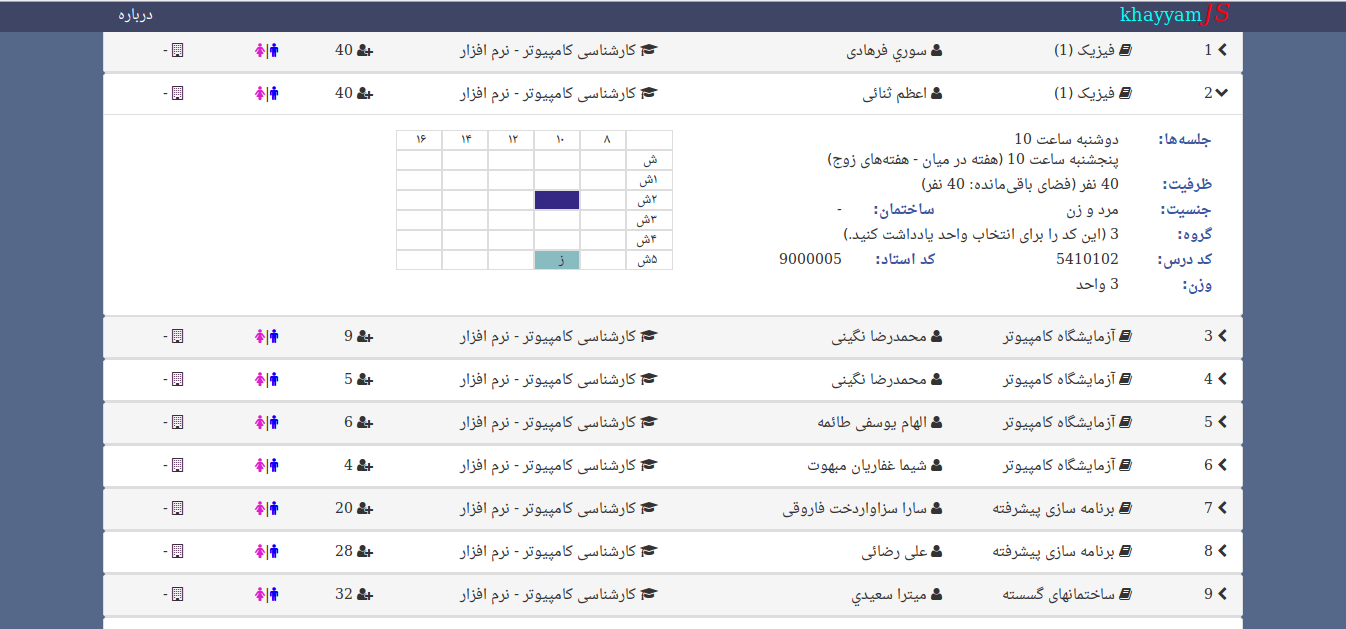
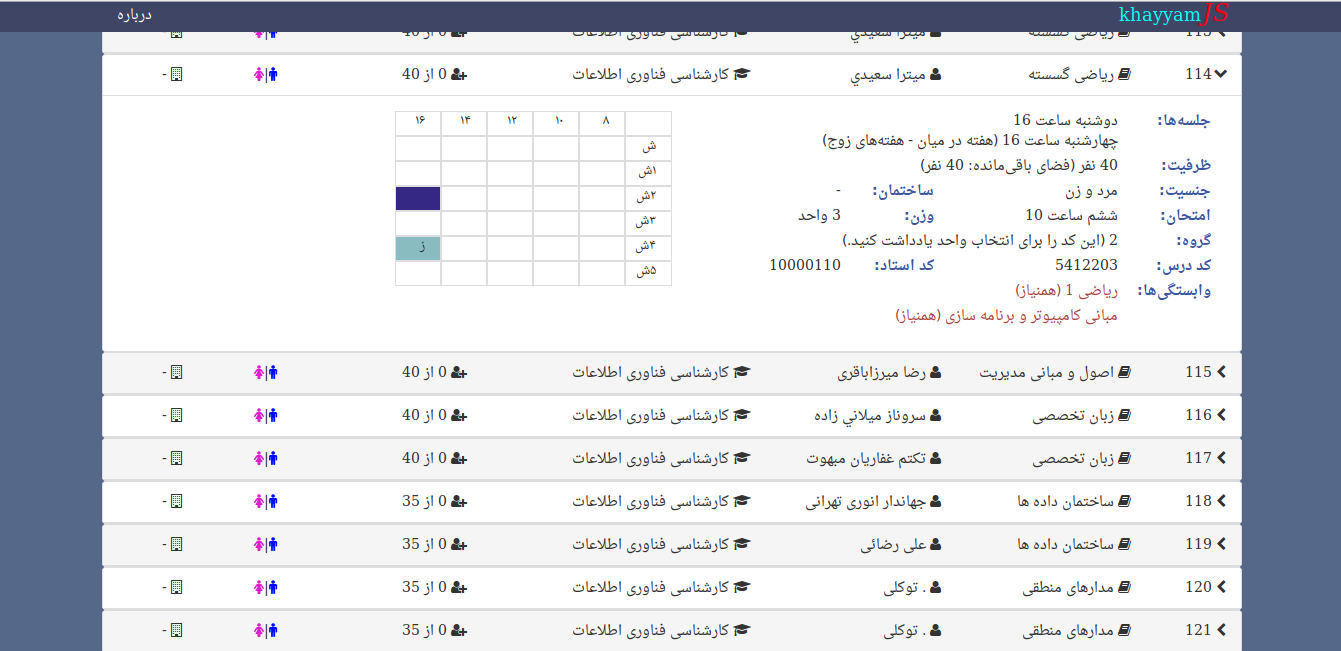
Added course requirements. updated to version 0.2

Changed region(s): [[0.0611, 0.0, 0.9478, 0.9968]]

diff --git a/khayyamJS.user.js b/khayyamJS.user.js
@@ -34,7 +34,7 @@ Github: https://github.com/tuxitop/khayyamJS
 // @namespace   http://alimsvi.ir/
 // @description changes the UI of the presented course list in the student portal of Khayyam university of Mashhad.
 // @include     http://stu.khayyam.ac.ir/strcss/ShowPresentedCourses.php
-// @version     0.1.3
+// @version     0.2
 // @author      Ali Mousavi
 // @require     https://code.jquery.com/jquery-1.10.2.js
 // @require     https://maxcdn.bootstrapcdn.com/bootstrap/3.3.5/js/bootstrap.min.js
@@ -90,6 +90,7 @@ var Course = function(index, courseColArray) {
 
     this.fieldID = this.courseID.substr(0, 4);
     this.sessionsArray = this.getSessionsArray();
+    this.reqsArray = this.getReqsArray();
 };
 
 Course.prototype.addToPage = function () {
@@ -149,6 +150,8 @@ Course.prototype.addToPage = function () {
                 '<div class="row">' +
                     '<div class="col-xs-2 course-specs-heading">امتحان:</div>' +
                     '<div class="col-xs-4 course-exam">' + this.examDay + " ساعت " + this.examHour + '</div>' +
+                    '<div class="col-xs-2 course-specs-heading">وزن:</div>' +
+                    '<div class="col-xs-4 course-weight">' + this.weight[0] + ' واحد</div>' +
                 '</div>' +
                 '<div class="row">' +
                     '<div class="col-xs-2 course-specs-heading">گروه:</div>' +
@@ -163,8 +166,8 @@ Course.prototype.addToPage = function () {
                     '<div class="col-xs-4 course-teacherID">' + this.teacherID + '</div>' +
                 '</div>' +
                 '<div class="row">' +
-                    '<div class="col-xs-2 course-specs-heading">وزن:</div>' +
-                    '<div class="col-xs-4 course-weight">' + this.weight[0] + ' واحد</div>' +
+                    '<div class="col-xs-2 course-specs-heading">وابستگیها:</div>' +
+                    '<div class="col-xs-10 course-reqs"></div>' +
                 '</div>' +
             '</div>' +
             '<div class="col-sm-5 col-md-3 col-xs-12 course-table">' +
@@ -206,6 +209,23 @@ Course.prototype.addToPage = function () {
                 '<div class="row">' +
                     '<div class="col-sm-12 session-time">' +
                         session.day + ' ساعت ' + session.hour +
+                    '</div>' +
+                '</div>'
+            );
+        }
+    }
+
+    // Add Requirements to the specs.
+    if (!this.reqsArray.length) {
+        $("#" + this.id + " .course-reqs").text('-');
+    }
+    else {
+        for (var i = 0; i < this.reqsArray.length; i++) {
+            req = this.reqsArray[i];
+            $("#" + this.id + " .course-reqs").append(
+                '<div class="row">' +
+                    '<div class="col-sm-12 text-danger">' +
+                        req.title + ' (' + req.type + ')' +
                     '</div>' +
                 '</div>'
             );
@@ -257,6 +277,21 @@ Course.prototype.getSessionsArray = function() {
         sessionsArray.push(Session);
     }
     return sessionsArray;
+};
+Course.prototype.getReqsArray = function() {
+    reqsArray = [];
+    var re_reqs = /کد درس ?: ?(\d+?) نام درس: (.*?) تعداد واحد: ?(\d) ?\( ?(پیشنیاز|همنیاز)\) ?کد ?معادل ?: ?(-?\d+?)<\/li>/g;
+    var reMatch;
+    while ((reMatch = re_reqs.exec(this.specs)) !== null ) {
+        var Req = {};
+        Req.id = reMatch[1];
+        Req.title = reMatch[2];
+        Req.weight = reMatch[3];
+        Req.type = reMatch[4];
+        Req.altId = reMatch[5];
+        reqsArray.push(Req);
+    }
+    return reqsArray;
 };
 Course.prototype.getGender = function() {
     /*
@@ -321,7 +356,7 @@ var createBody = function() {
         '<link rel="stylesheet" href="https://maxcdn.bootstrapcdn.com/bootstrap/3.3.5/css/bootstrap.min.css">' +
         '<link rel="stylesheet" href="http://cdn.rawgit.com/morteza/bootstrap-rtl/master/dist/css/bootstrap-rtl.min.css">' +
         '<link rel="stylesheet" href="https://maxcdn.bootstrapcdn.com/font-awesome/4.4.0/css/font-awesome.min.css">' +
-        '<link rel="stylesheet" href="https://cdn.rawgit.com/tuxitop/khayyamJS/v0.1.2/style.css">'
+        '<link rel="stylesheet" href="https://cdn.rawgit.com/tuxitop/khayyamJS/v0.2/style.css">'
     );
 
     //navbar

diff --git a/README.md b/README.md
@@ -1,7 +1,7 @@
 # khayyamJS
-A user script written with javascript for changing the UI of the student portal of Khayyam university of Mashhad. It Currently only works on the "Presented course list"  page, which in my opinion is one of the most important pages, and the students usually spend a lot of their time in it.
+A user script written with JavaScript for changing the UI of the student portal of Khayyam university of Mashhad. It Currently only works on the "Presented course list"  page, which in my opinion is one of the most important pages, and the students usually spend a lot of their time in it.
 
-The default UI of the page is a disaster. It includes a simple table where clicking on each courseID opens a new popup in a new tab. This script completely rewrites the default view, and uses modern design elements for displaying the page.
+The default UI of the page is a disaster. It includes a simple table where clicking on each courseID opens a new pop-up in a new tab. This script completely rewrites the default view, and uses modern design elements for displaying the page.
 
 This is the default view **without using khayyamJS**:
 ![Screenshot whithout using khayyamJS](screenshots/screenshot-NOTkhayyamJS.png?raw=true)
@@ -14,18 +14,18 @@ This is what khayyamJS does:
 * Modern view of the page, using no \<table\> elements.
 * Shows each session in a very nice table.
 * Uses no popups. (with the power of JQuery)
+* Shows Course requirements.
 
 # How to install
 ## Firefox:
 1. Install [Greasmonkey](https://addons.mozilla.org/en-us/firefox/addon/greasemonkey/).
-2. Navigate to khayyamJS.user.script on github and click on the "Raw" botton and Install the script. Alternetively use this [link](khayyamJS.user.js?raw=true) and click install.
+2. Navigate to khayyamJS.user.script on github and click on the "Raw" button and Install the script. Alternatively use this [link](khayyamJS.user.js?raw=true) and click install.
 
 ## Chrome:
 1. Install [Tampermonkey](https://chrome.google.com/webstore/detail/tampermonkey/dhdgffkkebhmkfjojejmpbldmpobfkfo).
-2. Navigate to khayyamJS.user.script on github and click on the "Raw" botton and Install the script. Alternetively use this [link](khayyamJS.user.js?raw=true) and click install.
+2. Navigate to khayyamJS.user.script on github and click on the "Raw" button and Install the script. Alternatively use this [link](khayyamJS.user.js?raw=true) and click install.
 
 # To do
-* Add support for course requirements.
 * Querying the courses.
 * Filtering the courses.
 * Selecting the courses and previewing the time sheet.

diff --git a/CHANGELOG.md b/CHANGELOG.md
@@ -1,16 +1,17 @@
-# devel
+## 0.2 (13 Sep 2015)
 * Added exam day
 * Added exam hour
+* Added course requirements
 * Reduced teacher name size on the bar.
 * Changed signed up student number.
 
-#0.1.2 (10 Sep 2015)
+##0.1.2 (10 Sep 2015)
 * restyled and debuged the stylesheet.
 
-#0.1.1 (9 Sep 2012)
+##0.1.1 (9 Sep 2012)
 * Added "about"
 * Added weight option for courses
 
-#0.1 (8 Sep 2015)
+##0.1 (8 Sep 2015)
 * Initial release
 * Responsive design (Bootstrap, JQuery)
